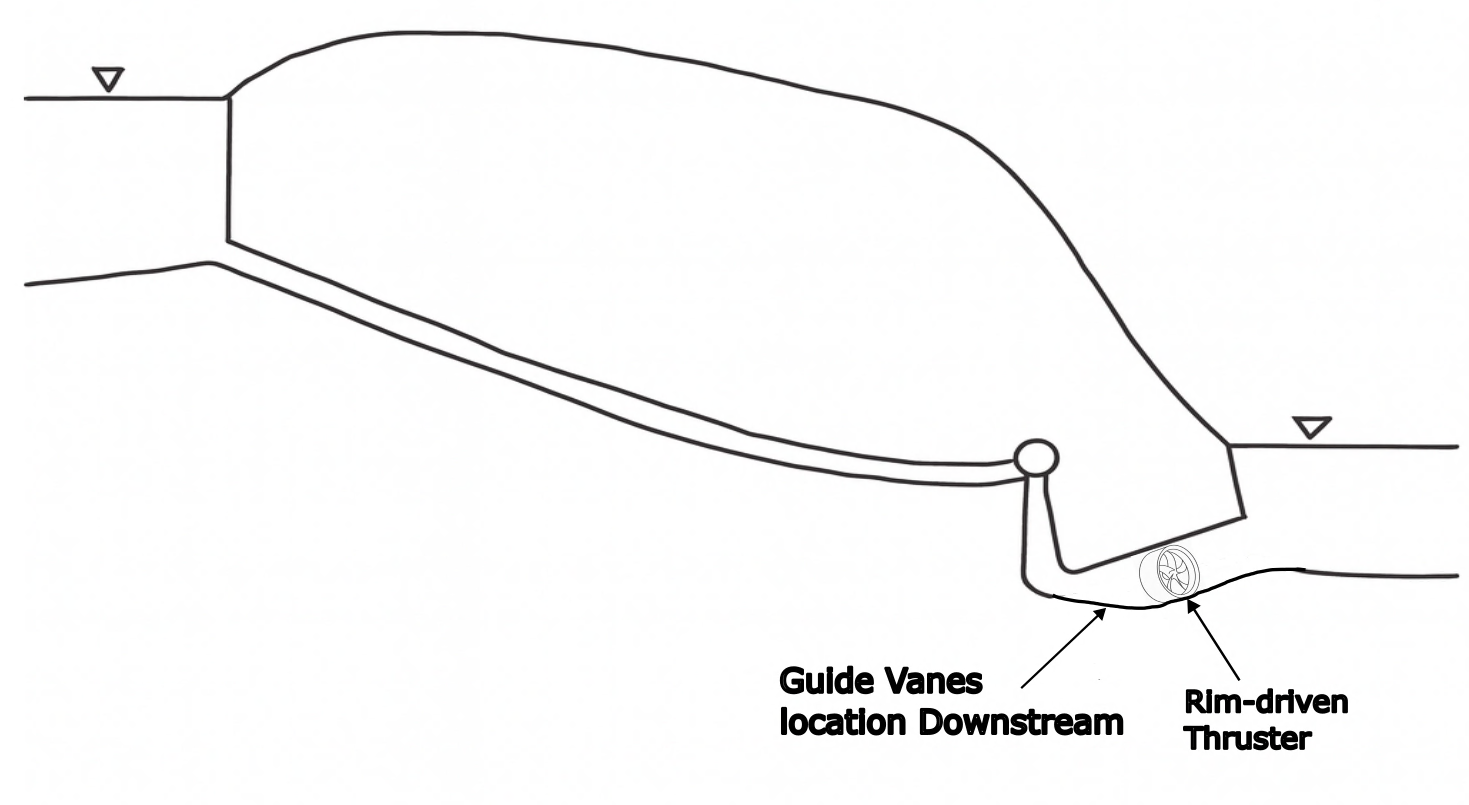
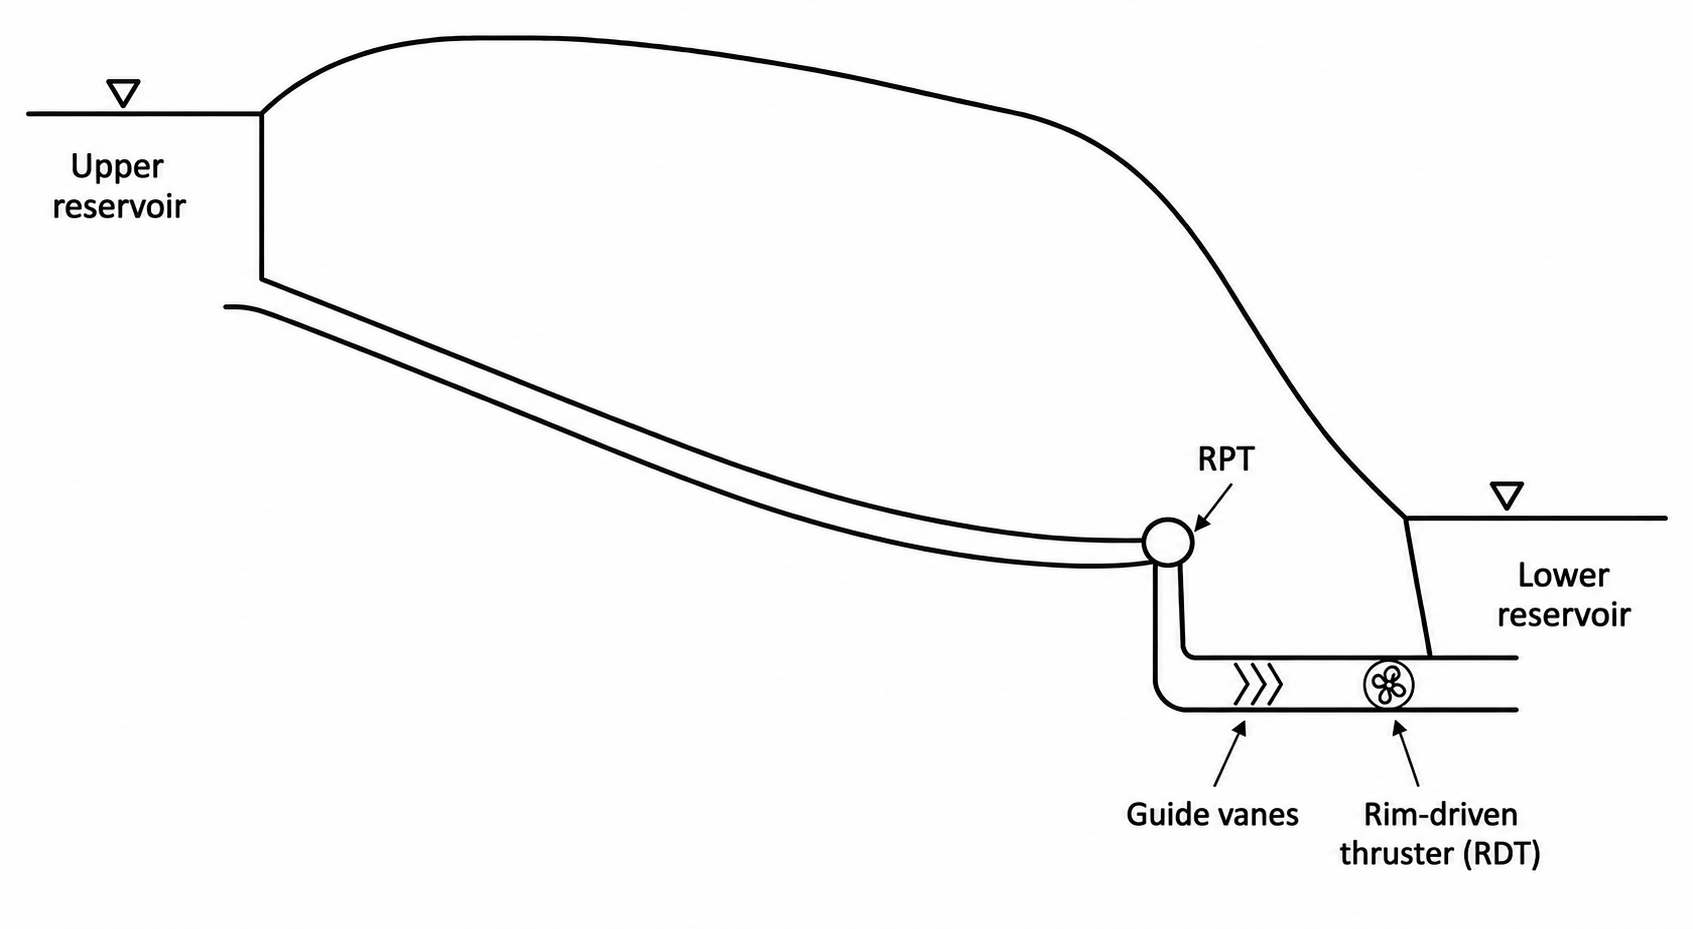
Updates from Overleaf

diff --git a/chapters/1.Introduction.tex b/chapters/1.Introduction.tex
@@ -26,8 +26,8 @@ The RDT introduces a new problem. Without a stator, the rotor leaves a swirling 
 
 \begin{figure}[h!]
   \centering
-  \includegraphics[width=0.75\textwidth]{Figures/Litterature_review/Sketch_RDT_GV.png}
-  \caption[Concept sketch of the RDT--GV booster system]{Concept sketch of the RDT booster with a downstream GV row in the draft tube of a reversible pump-turbine retrofit. Adapted from the project work~\cite{Leonsen2025}.}
+  \fbox{\includegraphics[width=0.75\textwidth]{Figures/Litterature_review/Sketch_RDT_GV.png}}
+  \caption[Concept sketch of the RDT--GV booster system]{Concept sketch of the RDT booster with a downstream GV row in the draft tube of a reversible pump-turbine retrofit.}
   \label{fig:concept_intro}
 \end{figure}
 